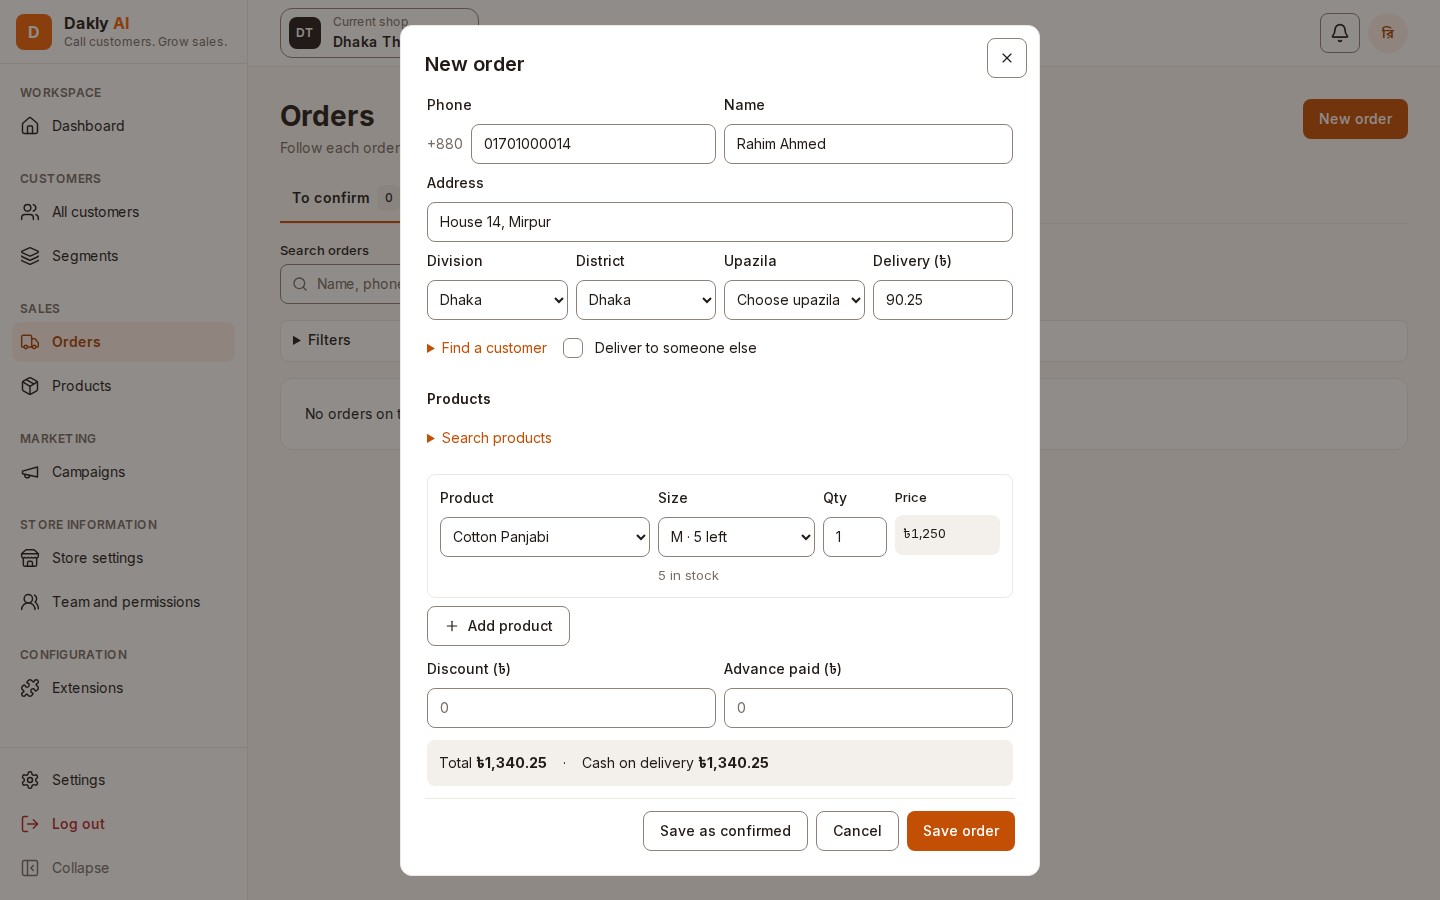
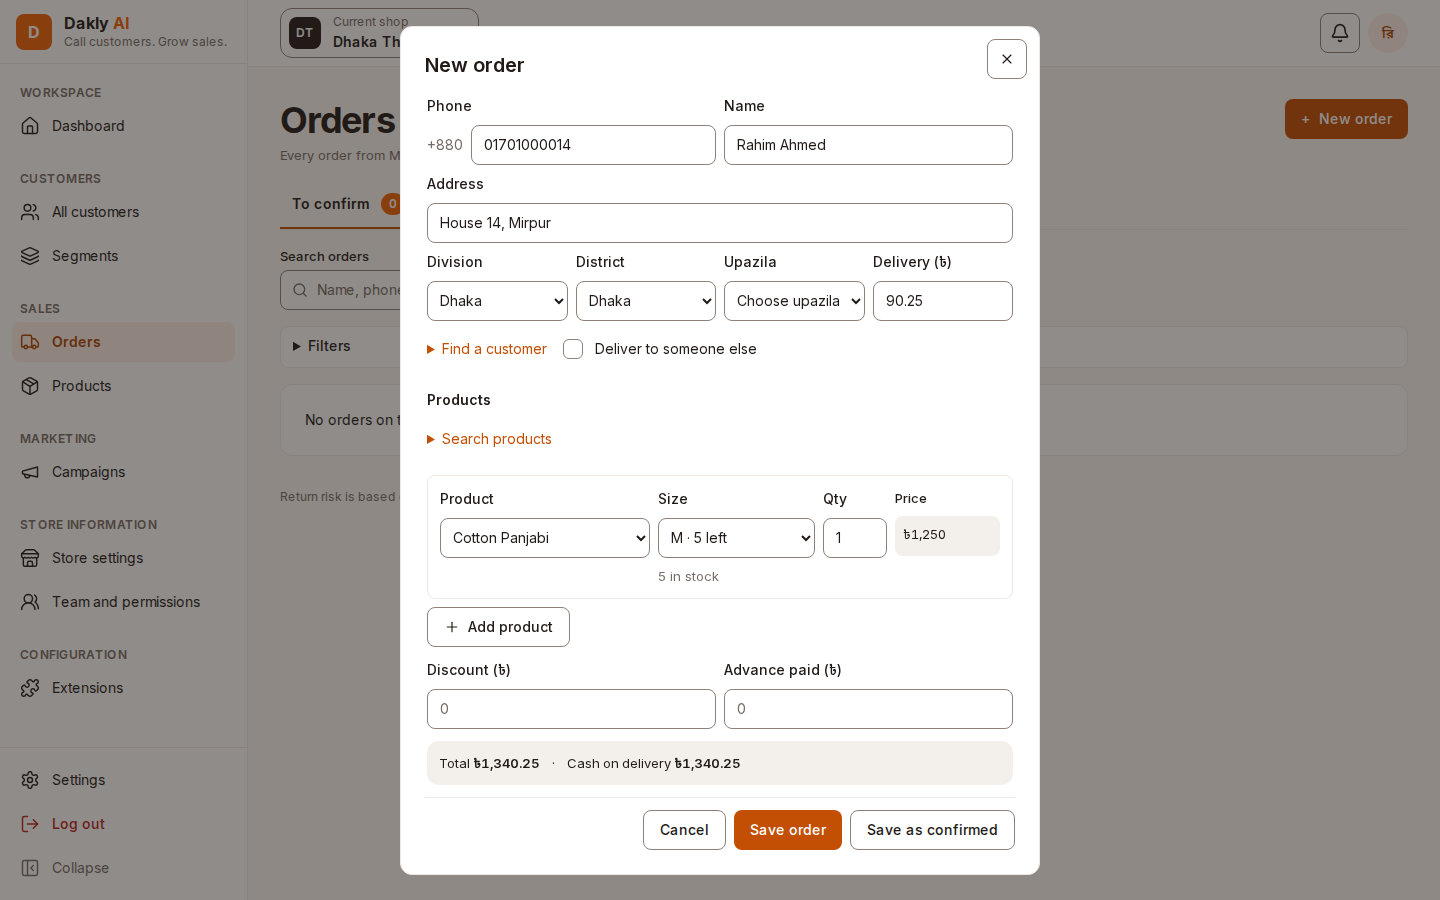
fix(web-7): keep catalogue selections current while entering orders

diff --git a/apps/web/e2e/new-order.spec.ts b/apps/web/e2e/new-order.spec.ts
@@ -5,7 +5,7 @@ import { resolve } from 'node:path';
 import { expect, test, type Locator, type Page } from '@playwright/test';
 
 import type { DeliveryZoneListResponse } from '@dakly/contracts/delivery';
-import type { OrderCatalogueProduct } from '@dakly/contracts/orders';
+import type { OrderCataloguePage, OrderCatalogueProduct } from '@dakly/contracts/orders';
 import { createDatabase } from '@dakly/db/client';
 
 const evidence = resolve(process.cwd(), '../../docs/design/evidence/ord-5-new-order');
@@ -176,7 +176,6 @@ test('creates a staff order with the zone charge, stock and computed COD', async
     await product.selectOption(productId);
     await expect(size.getByRole('option', { name: 'M · 4 left' })).toHaveCount(1);
     await expect(size.getByRole('option', { name: 'L · 2 left' })).toHaveCount(0);
-    await product.selectOption('');
     await page.unroute(productDetail);
     const catalogueSearch = create.getByText('Search products', { exact: true });
     await catalogueSearch.click();
@@ -186,13 +185,12 @@ test('creates a staff order with the zone charge, stock and computed COD', async
     );
     await search.fill('Cotton Panjabi');
     await refreshedList;
+    await expect(size.getByRole('option', { name: 'M · 5 left' })).toHaveCount(1);
     await page.route(productDetail, (route) => route.fulfill({ status: 503 }));
     const failedDetail = page.waitForResponse(
       (response) =>
         response.url().endsWith(`/api/orders/catalogue/${productId}`) && response.status() === 503,
     );
-    await product.selectOption(productId);
-    await failedDetail;
     const beforeSizing = page.waitForResponse((response) =>
       response.url().includes('/orders/catalogue?search=Unlisted+product'),
     );
@@ -201,21 +199,86 @@ test('creates a staff order with the zone charge, stock and computed COD', async
     await expect(product).toHaveValue(productId);
     await expect(size.getByRole('option', { name: 'M · 5 left' })).toHaveCount(1);
     await expect(size).toHaveValue('');
-    await page.unroute(productDetail);
-    await search.clear();
-    await catalogueSearch.click();
     await create.getByRole('button', { name: 'Save order' }).click();
     await expect(size).toHaveAttribute('aria-invalid', 'true');
     await expect(size.getByRole('option', { name: 'M · 5 left' })).toHaveCount(1);
     await size.selectOption(variantId);
+    await failedDetail;
+    await page.unroute(productDetail);
+    await search.clear();
+    await catalogueSearch.click();
     await expect(size).toHaveAttribute('aria-invalid', 'false');
     await expect(create.getByText('5 in stock')).toBeVisible();
     const cod = create.getByText(/^Cash on delivery/);
     await expect(cod.getByText('৳1,310', { exact: true })).toBeVisible();
     await create.getByRole('button', { name: 'Add product' }).click();
     await expect(create.getByText('Cash on delivery')).toHaveCount(0);
+    let releaseDetail!: () => void;
+    const holdDetail = new Promise<void>((resolve) => {
+      releaseDetail = resolve;
+    });
+    await page.route(productDetail, async (route) => {
+      const response = await route.fetch();
+      const data: OrderCatalogueProduct = await response.json();
+      await holdDetail;
+      await route.fulfill({
+        response,
+        json: { ...data, variants: data.variants.filter(({ id }) => id !== variantId) },
+      });
+    });
+    const detailRequest = page.waitForRequest((request) =>
+      request.url().endsWith(`/api/orders/catalogue/${productId}`),
+    );
+    const delayedDetail = page.waitForResponse((response) =>
+      response.url().endsWith(`/api/orders/catalogue/${productId}`),
+    );
+    try {
+      await create.getByLabel('Product 2', { exact: true }).selectOption(productId);
+      await detailRequest;
+      await catalogueSearch.click();
+      const laterSearch = page.waitForResponse((response) =>
+        response.url().includes('/orders/catalogue?search=Panjabi'),
+      );
+      await search.fill('Panjabi');
+      await laterSearch;
+    } finally {
+      releaseDetail();
+    }
+    await delayedDetail;
+    await page.unroute(productDetail);
     await create.getByRole('button', { name: 'Remove' }).last().click();
-    await catalogueSearch.click();
+    await expect(size).toHaveValue(variantId);
+    await expect(cod.getByText('৳1,310', { exact: true })).toBeVisible();
+
+    const catalogueUpdate = /\/api\/orders\/catalogue\?search=Cotton\+Pa(n)?$/;
+    await page.route(catalogueUpdate, async (route) => {
+      const response = await route.fetch();
+      const result: OrderCataloguePage = await response.json();
+      const pricePoisha = route.request().url().endsWith('Pan') ? 0 : 150000;
+      await route.fulfill({
+        response,
+        json: {
+          ...result,
+          items: result.items.map((item) => ({
+            ...item,
+            variants: item.variants.map((variant) =>
+              variant.id === variantId ? { ...variant, pricePoisha } : variant,
+            ),
+          })),
+        },
+      });
+    });
+    await search.fill('Cotton Pa');
+    await expect(cod.getByText('৳1,560', { exact: true })).toBeVisible();
+    await search.fill('Cotton Pan');
+    await expect(size).toHaveValue('');
+    await expect(cod).toHaveCount(0);
+    await create.getByRole('button', { name: 'Save order' }).click();
+    await expect(size).toHaveAttribute('aria-invalid', 'true');
+    await page.unroute(catalogueUpdate);
+    await search.fill('Cotton Panj');
+    await size.selectOption(variantId);
+
     const catalogueFiltered = page.waitForResponse((response) =>
       response.url().includes('/orders/catalogue?search=Missing+product'),
     );

diff --git a/apps/web/src/features/orders/components/order-product-fields.tsx b/apps/web/src/features/orders/components/order-product-fields.tsx
@@ -1,5 +1,5 @@
 import { Plus } from 'lucide-react';
-import { useId, useState } from 'react';
+import { useEffect, useId, useState } from 'react';
 import type { FieldArrayWithId, UseFormRegister } from 'react-hook-form';
 
 import type { OrderEditorValues, OrderCatalogueProduct } from '@dakly/contracts/orders';
@@ -8,11 +8,7 @@ import { FormField } from '@dakly/ui/form-field';
 import { Input } from '@dakly/ui/input';
 import { Label } from '@dakly/ui/label';
 
-import {
-  useOrderCatalogue,
-  useOrderCatalogueProducts,
-  useRememberCatalogueProduct,
-} from '../api/order-catalogue';
+import { useOrderCatalogue, useSelectedCatalogueProduct } from '../api/order-catalogue';
 import { formatMoney } from '@/lib/format-money';
 
 export type VariantChoice = {
@@ -47,13 +43,10 @@ export function OrderProductFields({
   const term = search.trim();
   const products = useOrderCatalogue(term.length >= 3 ? term : undefined);
   const pages = products.data?.pages ?? [];
-  const pageProducts = pages.flatMap((page) => page.items);
-  const choices = orderVariantChoices(pageProducts);
-  const catalogue = pageProducts.filter(({ variants }) =>
-    variants.some(({ pricePoisha }) => pricePoisha > 0),
-  );
-  const receivedAt = new Map(
-    pages.flatMap((page) => page.items.map(({ id }) => [id, page.receivedAt] as const)),
+  const catalogue = pages.flatMap((page) => page.items);
+  const choices = orderVariantChoices(catalogue);
+  const requestedAt = new Map(
+    pages.flatMap((page) => page.items.map(({ id }) => [id, page.requestedAt] as const)),
   );
   return (
     <fieldset className="space-y-2">
@@ -69,7 +62,7 @@ export function OrderProductFields({
           onRemove: fields.length > 1 ? onRemove : undefined,
         };
         return isNew ? (
-          <NewOrderProductLine key={field.id} {...{ catalogue, receivedAt, ...line }} />
+          <NewOrderProductLine key={field.id} {...{ catalogue, requestedAt, ...line }} />
         ) : (
           <OrderProductLine key={field.id} choices={choices} {...line} />
         );
@@ -163,7 +156,7 @@ const selectClass =
 
 function NewOrderProductLine({
   catalogue,
-  receivedAt,
+  requestedAt,
   ids,
   index,
   variants,
@@ -172,18 +165,16 @@ function NewOrderProductLine({
   onRemove,
 }: Omit<ProductLineProps, 'choices'> & {
   catalogue: OrderCatalogueProduct[];
-  receivedAt: Map<string, number>;
+  requestedAt: Map<string, number>;
 }) {
   const [productId, setProductId] = useState('');
-  const rememberProduct = useRememberCatalogueProduct();
-  const [selectedProduct] = useOrderCatalogueProducts(productId ? [productId] : []);
+  const listed = catalogue.find(({ id }) => id === productId);
+  const product = useSelectedCatalogueProduct(productId, listed, requestedAt.get(productId));
   const id = ids[index] ?? '';
-  const product = selectedProduct?.data ?? catalogue.find(({ id }) => id === productId);
   const productChoices = product ? orderVariantChoices([product]) : {};
   const selected = variants[id] ?? productChoices[id];
   const isTaken = (variantId: string) => variantId !== id && ids.includes(variantId);
   function chooseProduct(next: OrderCatalogueProduct | undefined) {
-    if (next) rememberProduct(next, receivedAt.get(next.id) ?? 0);
     setProductId(next?.id ?? '');
     onChoose(index, '');
   }
@@ -235,8 +226,11 @@ function ProductChoiceField({
   onChange: (product: OrderCatalogueProduct | undefined) => void;
 }) {
   const productInput = useId();
+  const priced = catalogue.filter(({ variants }) =>
+    variants.some(({ pricePoisha }) => pricePoisha > 0),
+  );
   const entries =
-    product && !catalogue.some(({ id }) => id === product.id) ? [product, ...catalogue] : catalogue;
+    product && !priced.some(({ id }) => id === product.id) ? [product, ...priced] : priced;
   return (
     <div className="col-span-2 min-w-0 space-y-2 sm:col-span-1">
       <Label htmlFor={productInput}>Product</Label>
@@ -280,6 +274,10 @@ function OrderSizeField({
   const options = product?.variants.filter(({ pricePoisha }) => pricePoisha > 0) ?? [];
   const selected = options.find((variant) => variant.id === id);
   const tracked = product?.isStockTracked;
+  const missingSize = Boolean(id && product && !selected);
+  useEffect(() => {
+    if (missingSize) choose('');
+  }, [choose, missingSize]);
   return (
     <FormField
       name={`items.${index}.variantId`}
@@ -292,7 +290,7 @@ function OrderSizeField({
           aria-label={`Size ${index + 1}`}
           className={selectClass}
           value={selected?.id ?? ''}
-          aria-invalid={props['aria-invalid'] || Boolean(id && !selected)}
+          aria-invalid={props['aria-invalid'] || missingSize}
           disabled={!options.length}
           onChange={(event) => choose(event.target.value)}
         >

diff --git a/apps/web/src/features/orders/api/order-catalogue.ts b/apps/web/src/features/orders/api/order-catalogue.ts
@@ -1,4 +1,11 @@
-import { useInfiniteQuery, useQueries, useQuery, useQueryClient } from '@tanstack/react-query';
+import {
+  useInfiniteQuery,
+  useQueries,
+  useQuery,
+  useQueryClient,
+  type QueryFunctionContext,
+} from '@tanstack/react-query';
+import { useEffect } from 'react';
 
 import type {
   OrderCataloguePage,
@@ -20,8 +27,9 @@ export function useOrderCatalogue(search?: string) {
       const params = new URLSearchParams();
       if (search) params.set('search', search);
       if (pageParam) params.set('cursor', pageParam);
+      const requestedAt = performance.now();
       const page = await request<OrderCataloguePage>(`/orders/catalogue?${params}`, { signal });
-      return { ...page, receivedAt: Date.now() };
+      return { ...page, requestedAt };
     },
     getNextPageParam: (page) => page.nextCursor ?? undefined,
     enabled: Boolean(contextTag && data?.currentStore?.canEditOrders),
@@ -35,14 +43,24 @@ const catalogueProductKey = (contextTag: string | undefined, id: string) => [
   id,
 ];
 
-export function useRememberCatalogueProduct() {
+type ProductSnapshot = OrderCatalogueProduct & { requestedAt: number };
+
+export function useSelectedCatalogueProduct(
+  id: string,
+  product: OrderCatalogueProduct | undefined,
+  requestedAt = 0,
+) {
   const { contextTag } = useStoreRequest();
   const cache = useQueryClient();
-  return (product: OrderCatalogueProduct, receivedAt: number) => {
+  const [selected] = useOrderCatalogueProducts(id ? [id] : []);
+  useEffect(() => {
+    if (!product) return;
     const key = catalogueProductKey(contextTag, product.id);
-    if (receivedAt > (cache.getQueryState(key)?.dataUpdatedAt ?? 0))
-      cache.setQueryData(key, product, { updatedAt: receivedAt });
-  };
+    if (requestedAt > (cache.getQueryData<ProductSnapshot>(key)?.requestedAt ?? -1))
+      cache.setQueryData(key, { ...product, requestedAt });
+  }, [cache, contextTag, product, requestedAt]);
+  const latest = selected?.data;
+  return (latest?.requestedAt ?? -1) > requestedAt ? latest : (product ?? latest);
 }
 
 export function useOrderCatalogueProducts(ids: readonly string[]) {
@@ -51,8 +69,12 @@ export function useOrderCatalogueProducts(ids: readonly string[]) {
   return useQueries({
     queries: ids.map((id) => ({
       queryKey: catalogueProductKey(contextTag, id),
-      queryFn: ({ signal }: { signal: AbortSignal }) =>
-        request<OrderCatalogueProduct>(`/orders/catalogue/${id}`, { signal }),
+      queryFn: async ({ client, queryKey, signal }: QueryFunctionContext) => {
+        const requestedAt = performance.now();
+        const product = await request<OrderCatalogueProduct>(`/orders/catalogue/${id}`, { signal });
+        const latest = client.getQueryData<ProductSnapshot>(queryKey);
+        return latest && latest.requestedAt > requestedAt ? latest : { ...product, requestedAt };
+      },
       enabled: Boolean(contextTag && data?.currentStore?.canEditOrders),
     })),
   });

diff --git a/apps/web/src/features/orders/components/order-editor-dialog.tsx b/apps/web/src/features/orders/components/order-editor-dialog.tsx
@@ -139,14 +139,6 @@ function NewOrderActions({
     <div className="flex shrink-0 flex-wrap justify-end gap-2 border-t border-border pt-3">
       <Button
         variant="secondary"
-        disabled={busy}
-        className="min-h-11 sm:min-h-10"
-        onClick={onSaveConfirmed}
-      >
-        Save as confirmed
-      </Button>
-      <Button
-        variant="secondary"
         onClick={onClose}
         disabled={busy}
         className="min-h-11 sm:min-h-10"
@@ -155,6 +147,14 @@ function NewOrderActions({
       </Button>
       <Button type="submit" loading={isPending} className="min-h-11 sm:min-h-10">
         {mustRetry ? 'Retry save' : 'Save order'}
+      </Button>
+      <Button
+        variant="secondary"
+        disabled={busy}
+        className="min-h-11 sm:min-h-10"
+        onClick={onSaveConfirmed}
+      >
+        Save as confirmed
       </Button>
     </div>
   );
@@ -312,22 +312,23 @@ function OrderPreview({ variants, order }: OrderPreviewProps) {
   if (charge === undefined || paid === undefined) return null;
   const total = subtotal - orderDiscount + charge;
   if (!Number.isSafeInteger(total)) return null;
+  return <OrderPreviewTotals total={total} cod={Math.max(0, total - paid)} isNew={!order} />;
+}
+
+function OrderPreviewTotals({ total, cod, isNew }: { total: number; cod: number; isNew: boolean }) {
   return (
     <p
       className={cn(
         'flex flex-wrap items-center rounded-lg bg-surface-muted p-3 text-sm tabular-nums',
-        order ? 'justify-between' : 'gap-x-3',
+        isNew ? 'gap-x-3' : 'justify-between',
       )}
     >
       <span>
         Total <strong className="font-semibold text-text">{formatMoney(total)}</strong>
       </span>
-      {!order && <span aria-hidden="true">·</span>}
+      {isNew && <span aria-hidden="true">·</span>}
       <span>
-        Cash on delivery{' '}
-        <strong className="font-semibold text-text">
-          {formatMoney(Math.max(0, total - paid))}
-        </strong>
+        Cash on delivery <strong className="font-semibold text-text">{formatMoney(cod)}</strong>
       </span>
     </p>
   );
